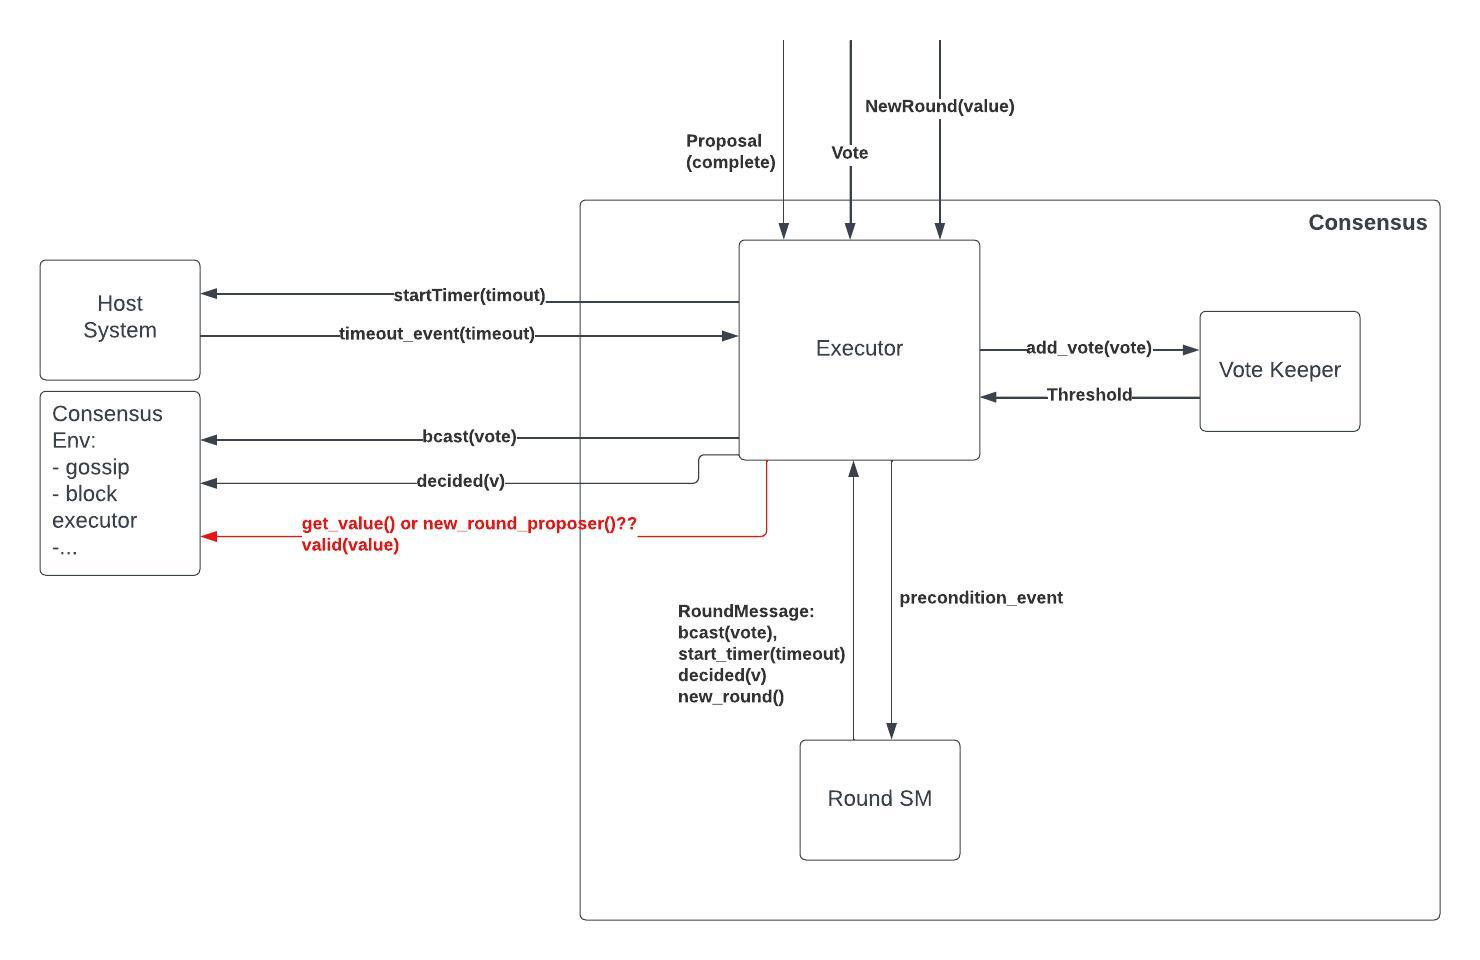
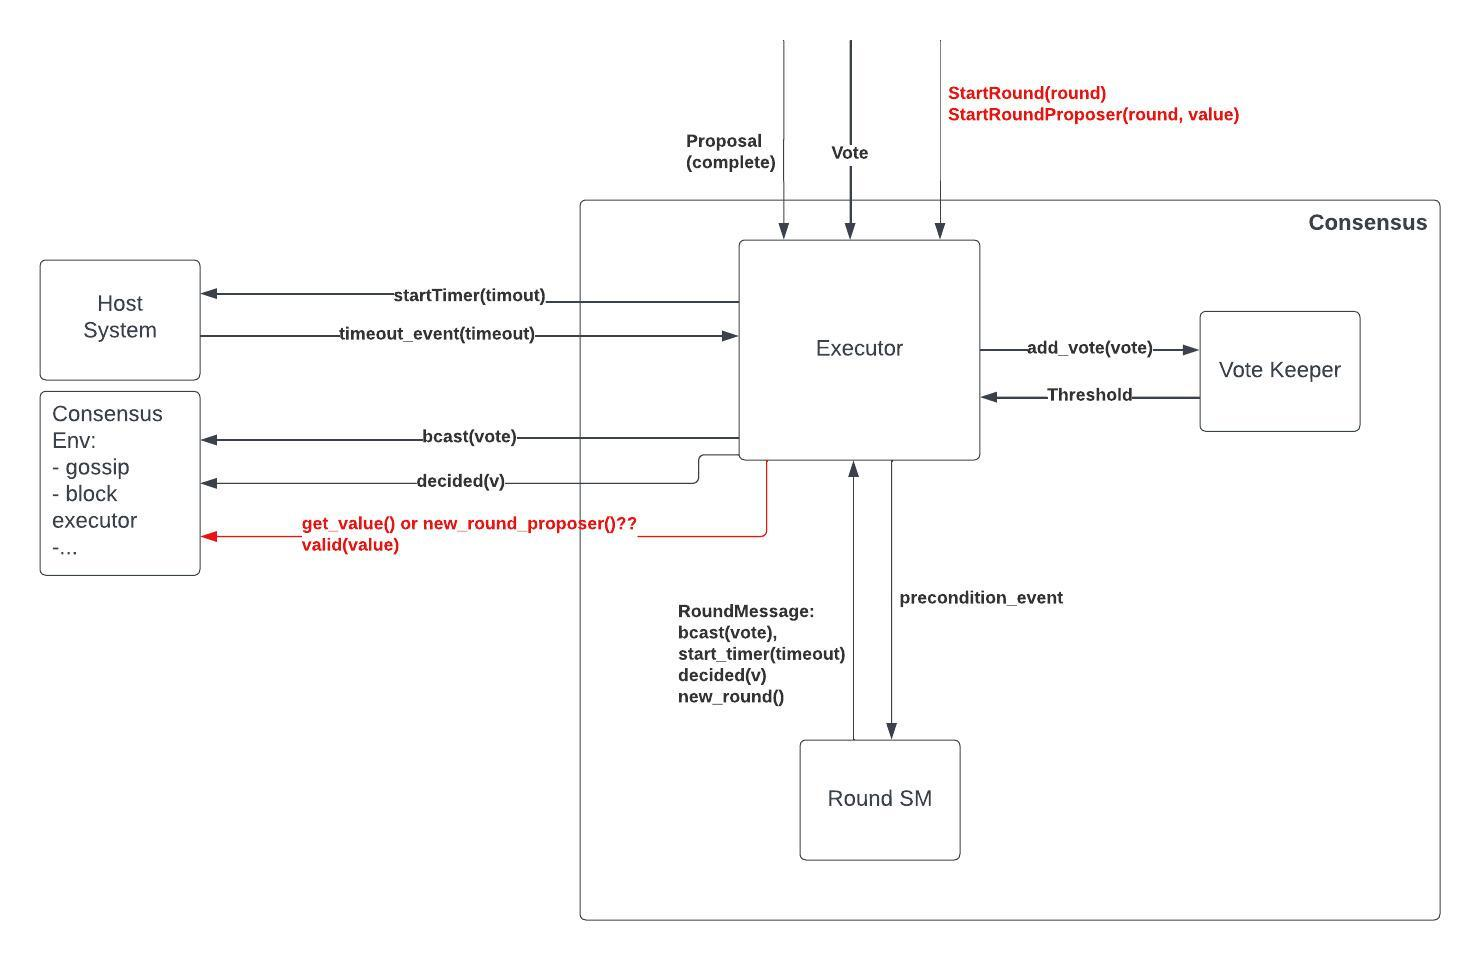
Rename input event NewRound to StartRound

Changed region(s): [[0.5905, 0.0938, 0.8392, 0.125], [0.6838, 0.3438, 0.777, 0.375]]

diff --git a/Docs/architecture/adr-overall-architecture.md b/Docs/architecture/adr-overall-architecture.md
@@ -92,7 +92,7 @@ pub enum Events<C>
 where
     C: Consensus,
 {
-    NewRound(Round), // Start a new round, currently must be 0
+    StartRound(Round), // Start a new round, currently must be 0
     Proposal(C::Proposal), // A proposal has been received, must be complete
     Vote(SignedVote<C>), // A vote has been received
     Timeout(Timeout), // A timeout has occurred
@@ -101,8 +101,8 @@ where
 ```
 Notes:
 - TBD: Round 0 is always started by an external module. Subsequent rounds may be managed by the executor or it could be the responsibility of the external module to start a new round.
-  - Could also push the retrieval of the value to the external module, e.g. have `NewRoundProposer(round, proposal)`
-  - Should we change to `StartRound`? It matches the paper and also `NewRound` is also used in some places as output message.
+  - Could also push the retrieval of the value to the external module, e.g. have `StartRoundProposer(round, proposal)`
+  - Is the change to `StartRound` ok? It matches the paper and (the old name) `NewRound` is also used in some places as output message.
 - TBD: The proposal must be complete, i.e. it must contain a complete value. If this value is sent by the proposer in chunks, it is the responsibility of the chain concrete implementation to collect the proposal for the value ID together with the chunks to create a complete proposal.
 - TBD: The proposal should also implement `valid(v)`. Alternatively, the caller could do the verification and use the following inputs:
   - `Proposal(C::Proposal)` - a valid proposal has been received
@@ -169,12 +169,12 @@ The Vote Keeper keeps track of the votes received for each round and the total w
 
 ```rust
 pub enum Event<C: Consensus> {
-    PolkaAny, // Receive +2/3 prevotes for anything. L34
-    PolkaNil, // Receive +2/3 prevotes for nil. L44
-    PolkaValue(ValueId<C>), // Receive quorum prevotes for Value. L44
-    PrecommitAny, // Receive quorum precommits for anything. L47
-    PrecommitValue(ValueId<C>), // Receive quorum precommits for Value. L51
-    ThresholdCorrectProcessInHigherRound, // Receives messages from minimum of honest validators and for a higher round (as defined by honest_threshold). See L55
+    PolkaAny, // Received quorum prevotes for anything. L34
+    PolkaNil, // Received quorum prevotes for nil. L44
+    PolkaValue(ValueId<C>), // Received quorum prevotes for Value. L44
+    PrecommitAny, // Received quorum precommits for anything. L47
+    PrecommitValue(ValueId<C>), // Received quorum precommits for Value. L51
+    ThresholdCorrectProcessInHigherRound, // Received messages from minimum of honest validators and for a higher round (as defined by honest_threshold). See L55
 }
 ```
 
@@ -209,19 +209,19 @@ In addition:
 
 ```rust
 pub enum Event<C: Consensus> {
-    NewRound,                   // Start a new round, not as proposer.L20
-    NewRoundProposer(C::Value), // Start a new round and propose the Value.L14
-    Proposal(C::Proposal),      // Receive a proposal. L22 + L23 (valid)
+    StartRound,                   // Start a new round, not as proposer.L20
+    StartRoundProposer(C::Value), // Start a new round and propose the Value.L14
+    Proposal(C::Proposal),      // Received a proposal. L22 + L23 (valid)
     ProposalAndPolkaPrevious(C::Value), // Recieved a proposal and a polka value from a previous round. L28 + L29 (valid)
-    ProposalInvalid,         // Receive an invalid proposal. L26 + L32 (invalid)
-    PolkaValue(ValueId<C>),  // Receive +2/3 prevotes for valueId. L44
-    PolkaAny,                // Receive +2/3 prevotes for anything. L34
-    PolkaNil,                // Receive +2/3 prevotes for nil. L44
-    ProposalAndPolkaCurrent(C::Value),     // Receive +2/3 prevotes for Value in current round. L36
-    PrecommitAny,            // Receive +2/3 precommits for anything. L47
-    ProposalAndPrecommitValue(C::Value), // Receive +2/3 precommits for Value. L49
-    PrecommitValue(ValueId<C>), // Receive +2/3 precommits for ValueId. L51
-    ThresholdCorrectProcessInHigherRound, // Receive +1/3 messages from a higher round. aka RoundSkip, L55
+    ProposalInvalid,         // Received an invalid proposal. L26 + L32 (invalid)
+    PolkaValue(ValueId<C>),  // Received quorum prevotes for valueId. L44
+    PolkaAny,                // Received quorum prevotes for anything. L34
+    PolkaNil,                // Received quorum prevotes for nil. L44
+    ProposalAndPolkaCurrent(C::Value),     // Received quorum prevotes for Value in current round. L36
+    PrecommitAny,            // Received quorum precommits for anything. L47
+    ProposalAndPrecommitValue(C::Value), // Received quorum precommits for Value. L49
+    PrecommitValue(ValueId<C>), // Received quorum precommits for ValueId. L51
+    ThresholdCorrectProcessInHigherRound, // Received messages from a number of honest processes in a higher round. aka RoundSkip, L55
     TimeoutPropose,          // Timeout waiting for proposal. L57
     TimeoutPrevote,          // Timeout waiting for prevotes. L61
     TimeoutPrecommit,        // Timeout waiting for precommits. L65
@@ -229,7 +229,7 @@ pub enum Event<C: Consensus> {
 ```
 
 #### Operation
-The Round state machine keeps track of the internal state of the consensus algorithm for a given round. It should be very close to the algorithm description in the original BFT consensus paper.
+The Round state machine keeps track of the internal state of consensus for a given round. It should be very close to the algorithm description in the original BFT consensus paper.
 
 #### Output Messages
 The Round state machine returns the following messages to the executor:
@@ -239,11 +239,11 @@ pub enum Message<C>
 where
     C: Consensus,
 {
-    NewRound(Round),                // Move to the new round.
-    Proposal(C::Proposal),          // Broadcast the proposal.
-    Vote(C::Vote),                  // Broadcast the vote.
-    Timeout(Timeout),               // Schedule the timeout.
-    Decision(RoundValue<C::Value>), // Decide the value.
+    NewRound(Round),                // Move to a new round, could be next or skipped round.
+    Proposal(C::Proposal),          // Broadcast a proposal.
+    Vote(C::Vote),                  // Broadcast a vote.
+    Timeout(Timeout),               // Schedule a timeout.
+    Decision(RoundValue<C::Value>), // Decided on a value.
 }
 ```
 
